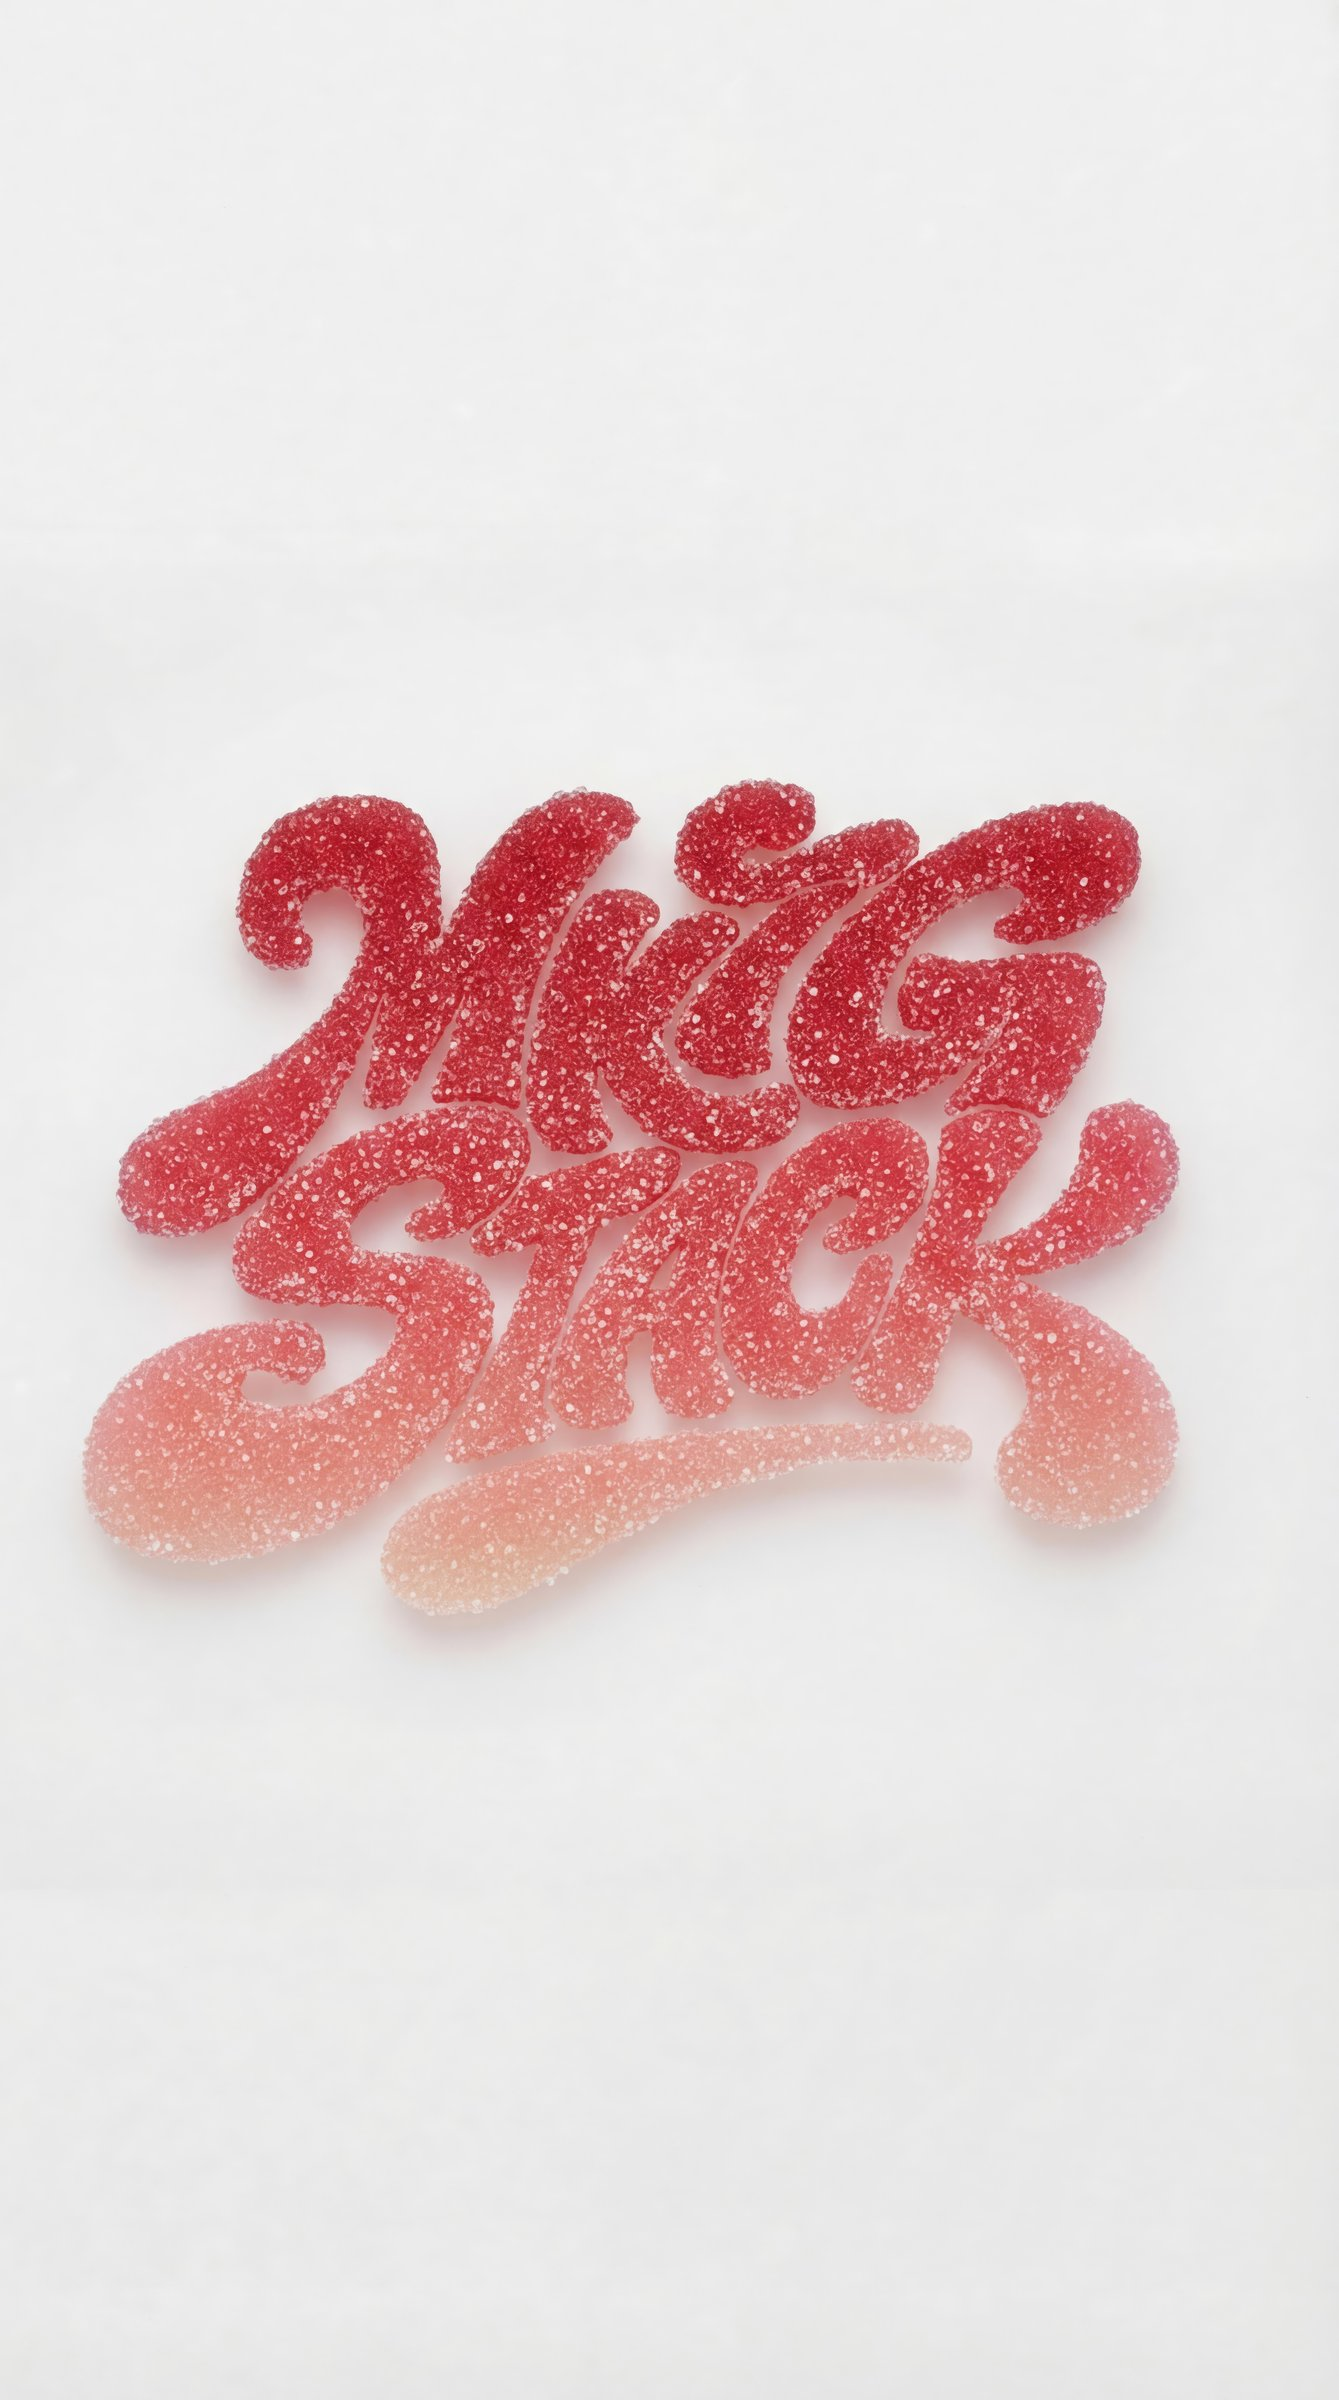
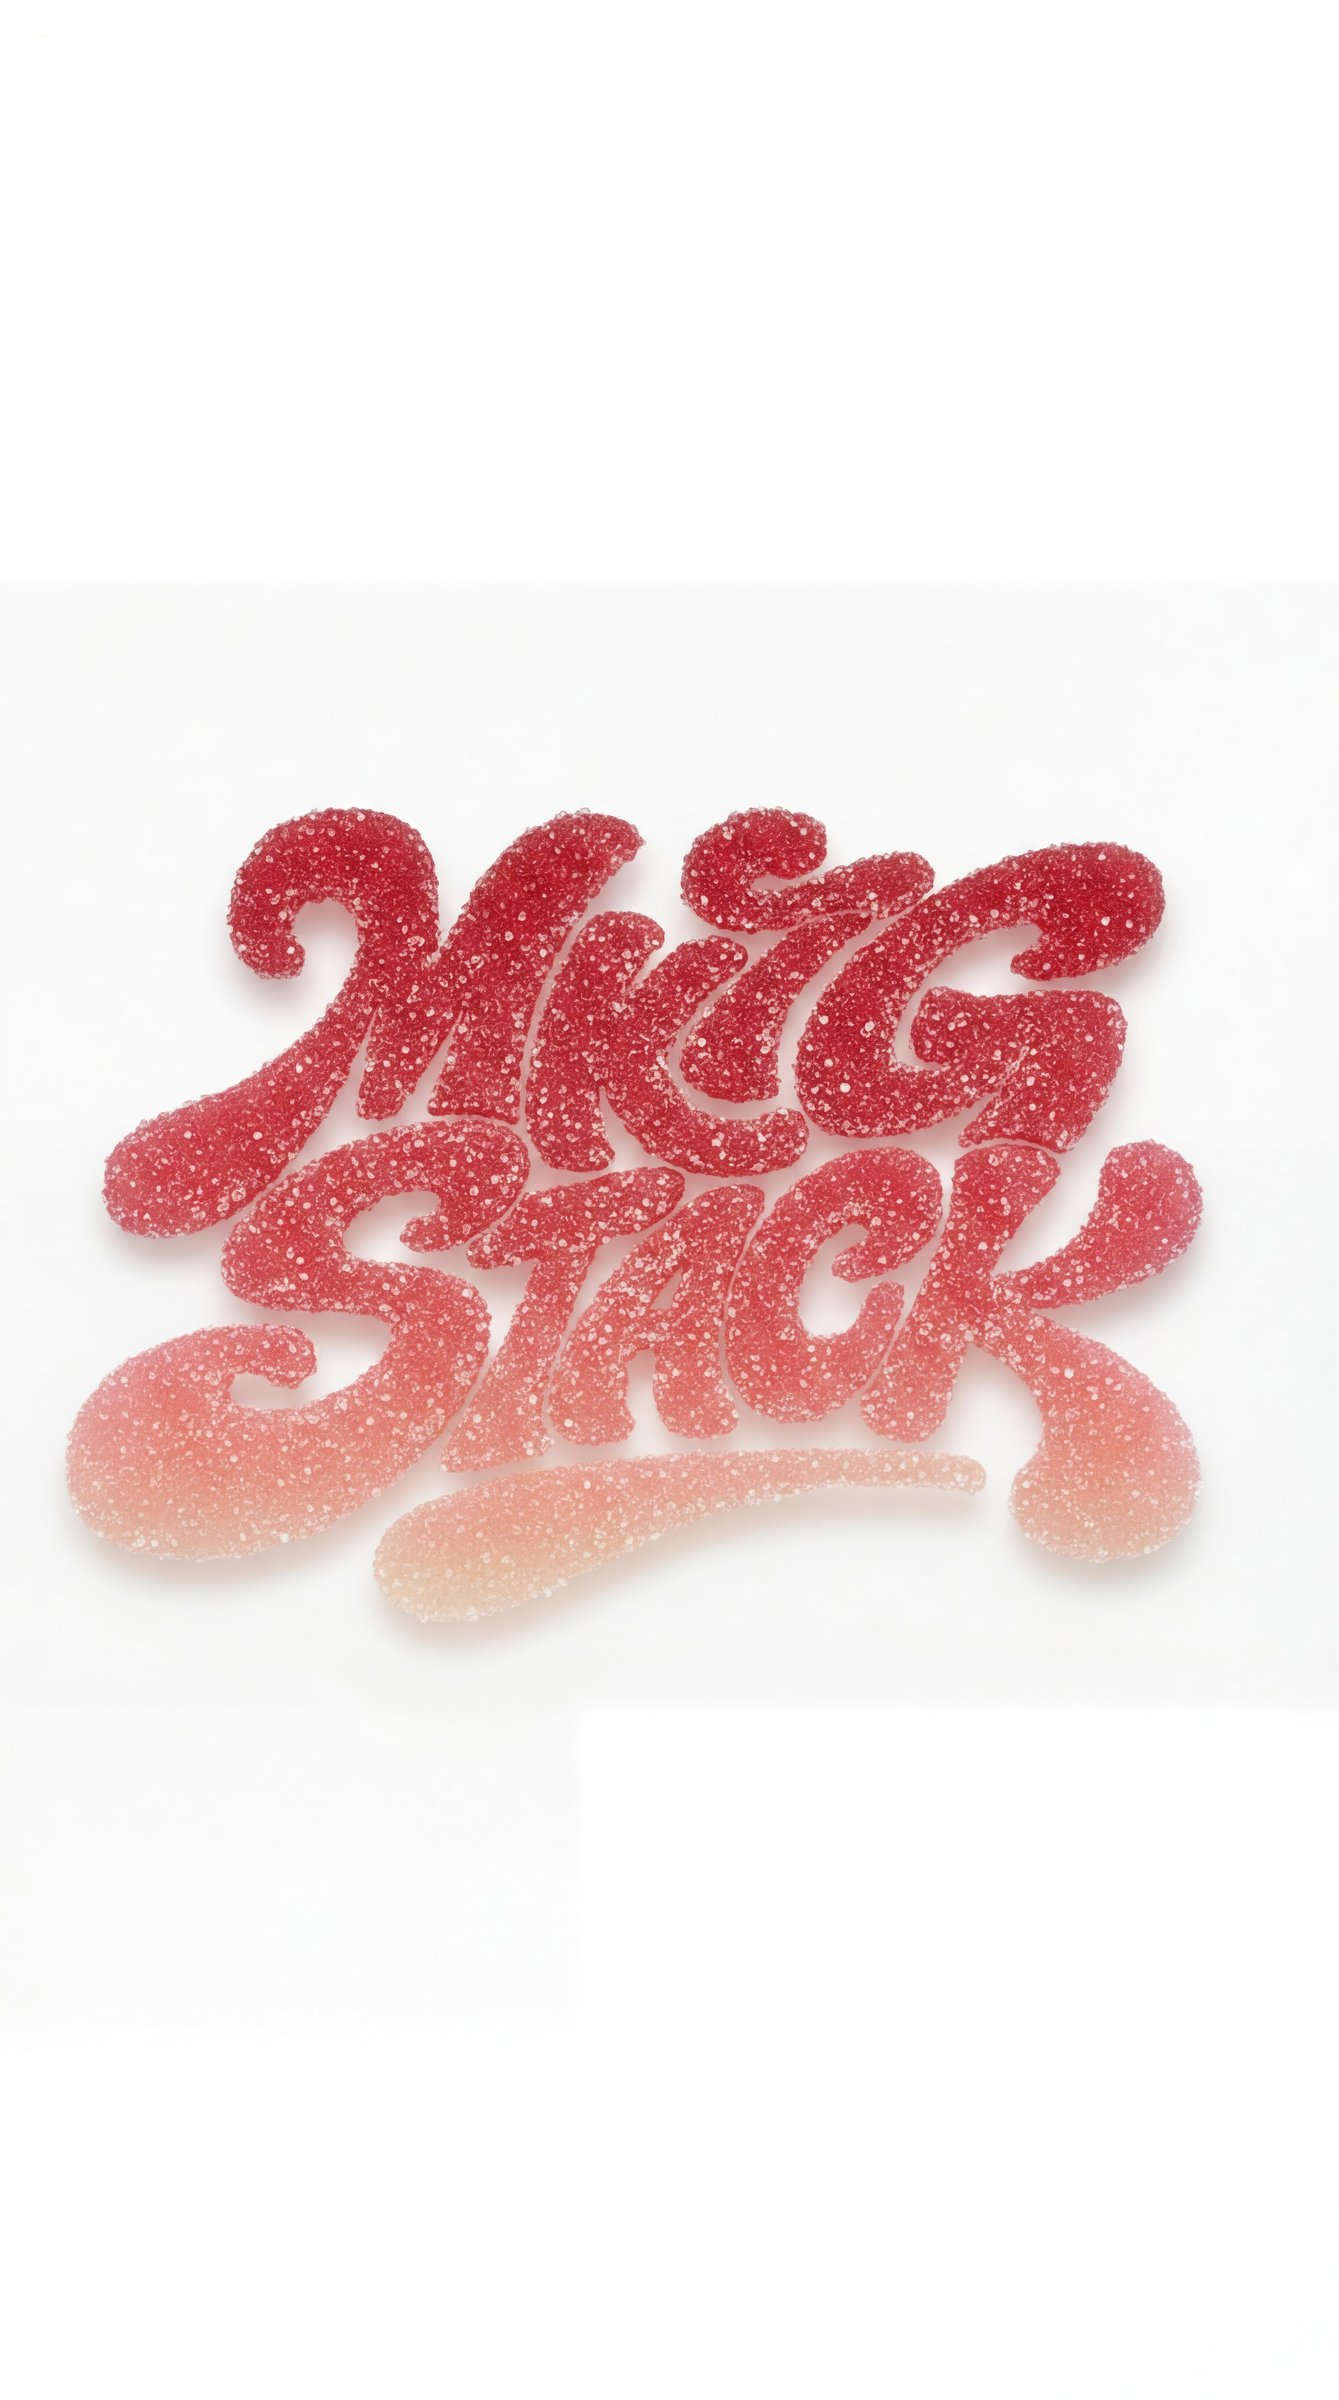
Regenerate neon/fuzzy/candy mobile with corrected Y positioning
Logo reference at 50% image height (accounts for -11% treatment offset).
All treatments now align consistently at mobileYOff: -0.11.

diff --git a/index.html b/index.html
@@ -336,10 +336,10 @@
 
     /* ═══ TREATMENTS ═══ */
     const TREATMENTS = [
-      { src: 'compressed_stills/desktop/neon_topaz.jpg',      mobileSrc: 'compressed_stills/mobile/neon_mobile_topaz.jpg',      name: 'neon',     mobileYOff: -0.08 },
-      { src: 'compressed_stills/desktop/fuzzy_topaz.jpg',     mobileSrc: 'compressed_stills/mobile/fuzzy_mobile_topaz.jpg',     name: 'fuzzy',    mobileYOff: -0.06 },
-      { src: 'compressed_stills/desktop/candy_topaz.jpg',     mobileSrc: 'compressed_stills/mobile/candy_mobile_topaz.jpg',     name: 'candy',    mobileYOff: -0.07 },
-      { src: 'compressed_stills/desktop/balloon_topaz.jpg',   mobileSrc: 'compressed_stills/mobile/balloon_mobile_topaz.jpg',   name: 'balloon',  mobileYOff: -0.07 },
+      { src: 'compressed_stills/desktop/neon_topaz.jpg',      mobileSrc: 'compressed_stills/mobile/neon_mobile_topaz.jpg',      name: 'neon',     mobileYOff: -0.11 },
+      { src: 'compressed_stills/desktop/fuzzy_topaz.jpg',     mobileSrc: 'compressed_stills/mobile/fuzzy_mobile_topaz.jpg',     name: 'fuzzy',    mobileYOff: -0.11 },
+      { src: 'compressed_stills/desktop/candy_topaz.jpg',     mobileSrc: 'compressed_stills/mobile/candy_mobile_topaz.jpg',     name: 'candy',    mobileYOff: -0.11 },
+      { src: 'compressed_stills/desktop/balloon_topaz.jpg',   mobileSrc: 'compressed_stills/mobile/balloon_mobile_topaz.jpg',   name: 'balloon',  mobileYOff: -0.09 },
       { src: 'compressed_stills/desktop/metallic_topaz.jpg',  mobileSrc: 'compressed_stills/mobile/metallic_mobile_topaz.jpg',  name: 'metallic', mobileYOff: -0.11 },
       { src: 'compressed_stills/desktop/chrome_topaz.jpg',    mobileSrc: 'compressed_stills/mobile/chrome_mobile_topaz.jpg',    name: 'chrome',   mobileYOff: -0.11 },
     ];
